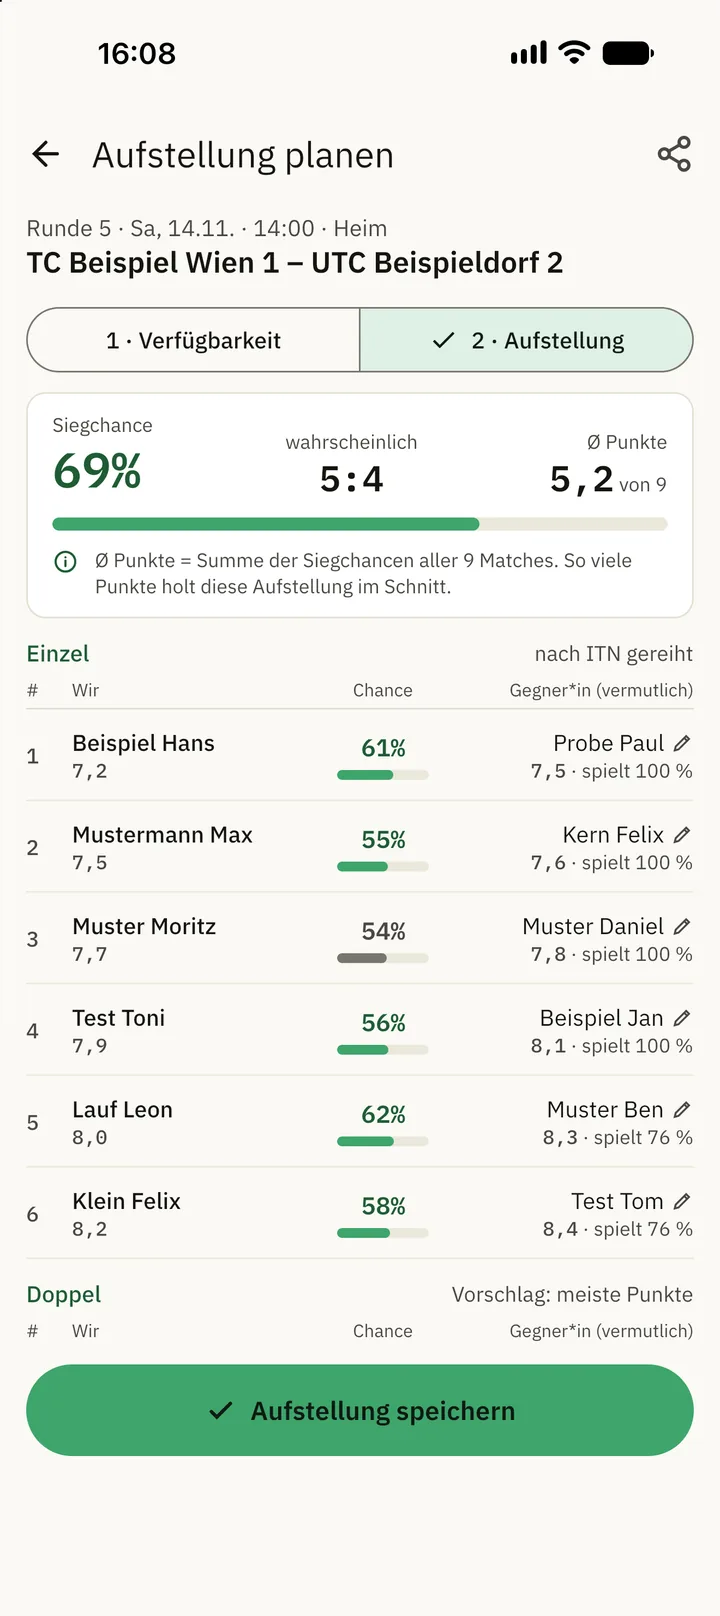
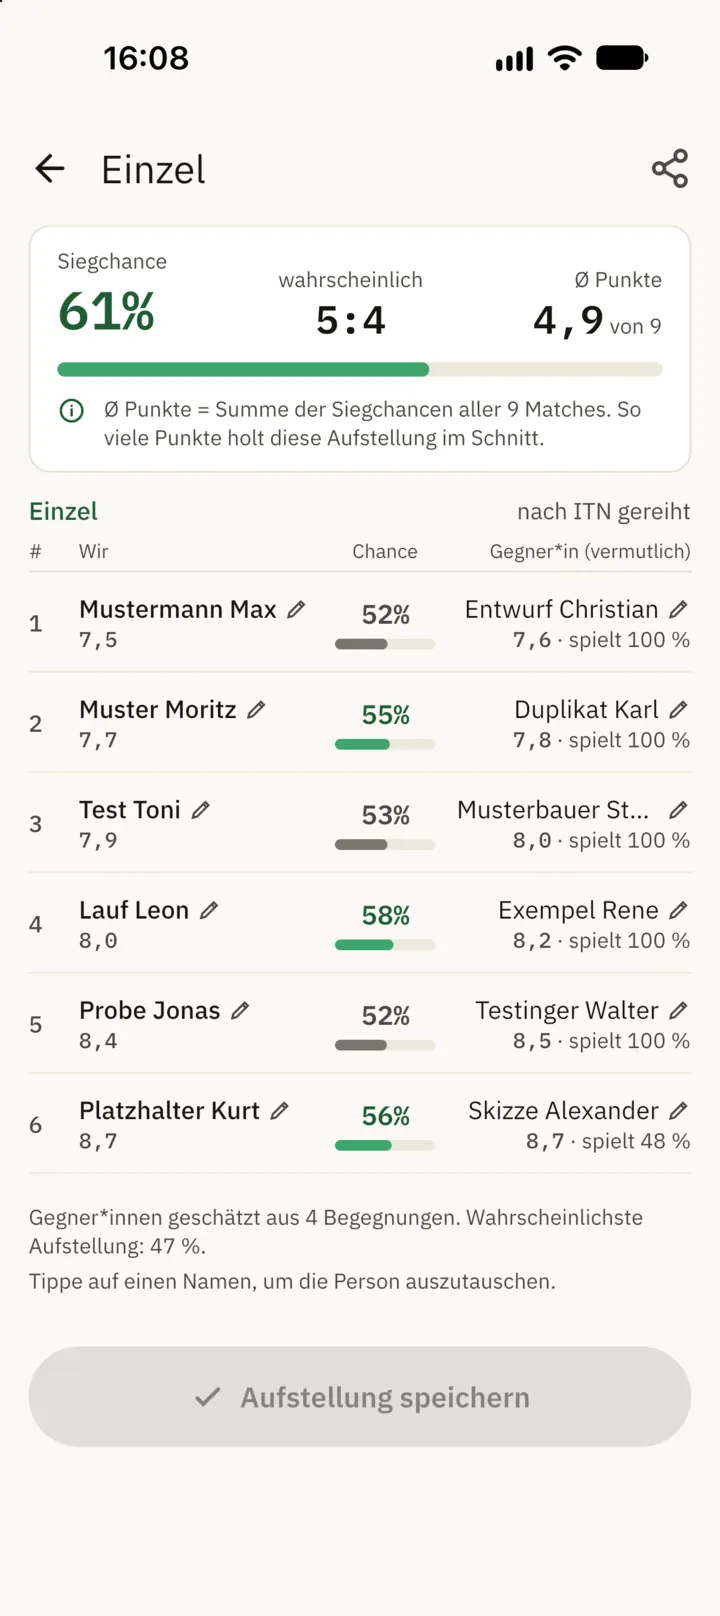
Refresh the remaining app screenshots to the current app
The six images show the current tab bar and screens. The crops end in clean gaps for the larger UI, the alt texts describe what is visible, and the third availability answer is called Vielleicht.

diff --git a/site/index.html b/site/index.html
@@ -61,7 +61,7 @@
 
       <figure class="hero-shot">
         <div class="crop crop-abfrage">
-          <img src="/img/app-verfuegbarkeit.webp" alt="Verfügbarkeitsabfrage der App aus Sicht der Mannschaftsführung: Antworten zum nächsten Spieltag als Liste: sieben mit Ja, eine mit Unter Umständen" width="720" height="1616" decoding="async" fetchpriority="high">
+          <img src="/img/app-verfuegbarkeit.webp" alt="Verfügbarkeitsabfrage der App aus Sicht der Mannschaftsführung: Antworten zum Spieltag am 28.11. als Liste: sechs mit Ja, eine mit Vielleicht" width="720" height="1616" decoding="async" fetchpriority="high">
         </div>
       </figure>
     </div>
@@ -96,13 +96,13 @@
       <div class="stairs">
         <figure class="step">
           <div class="crop crop-liga">
-            <img src="/img/app-liga.webp" alt="Liga-Übersicht der App: Tabelle, Spielplan und Prognose für die eigene Mannschaft" width="720" height="1616" loading="lazy" decoding="async">
+            <img src="/img/app-liga.webp" alt="Liga-Übersicht der App: Prognose mit Siegchance fürs nächste Match und Saison-Forecast, darunter die Tabelle mit der eigenen Mannschaft auf Platz 2" width="720" height="1616" loading="lazy" decoding="async">
           </div>
           <figcaption>Liga mit Prognose</figcaption>
         </figure>
         <figure class="step step-2">
           <div class="crop crop-mannschaft">
-            <img src="/img/app-kader.webp" alt="Kader der Liga in der App: jede Spieler*in der Mannschaft mit ITN, Bilanz und Form" width="720" height="1616" loading="lazy" decoding="async">
+            <img src="/img/app-kader.webp" alt="Kader der eigenen Mannschaft in der App: neun gemeldete Spieler*innen mit ITN, Einsätzen und Bilanz" width="720" height="1616" loading="lazy" decoding="async">
           </div>
           <figcaption>Kader mit ITN</figcaption>
         </figure>
@@ -124,7 +124,7 @@
       <div class="wrap field-inner">
         <div class="field-copy">
           <h2 id="verfuegbarkeit">Deine Spieler*innen brauchen keine App.</h2>
-          <p>Kortform legt die Saison automatisch an, du teilst nur den Link. Er öffnet eine Webseite: Ja, Nein oder Unter Umständen, optional mit Kommentar, ohne App und ohne Konto. Wer die App hat, antwortet auch dort.</p>
+          <p>Kortform legt die Saison automatisch an, du teilst nur den Link. Er öffnet eine Webseite: Ja, Vielleicht oder Nein, optional mit Kommentar, ohne App und ohne Konto. Wer die App hat, antwortet auch dort.</p>
           <p>Mit Kortform Team siehst du alle Antworten je Spieltag und Saison, erinnerst per Tipp, wer noch fehlt, und die Antworten fließen direkt in den Aufstellungsplaner. Den Link und die Zahl der Antworten hast du auch gratis.</p>
           <p>Antworten ist immer gratis. Die Abfrage nimmt auch nach dem Ende von Team weiter Antworten an.</p>
         </div>
@@ -154,8 +154,8 @@
 
       <div class="stairs stairs-one">
         <figure class="step">
-          <div class="crop crop-verlauf">
-            <img src="/img/app-aufstellung.webp" alt="Aufstellungsplaner der App: Einzel und Doppel nach ITN mit Siegchance je Position" width="720" height="1616" loading="lazy" decoding="async">
+          <div class="crop crop-aufstellung">
+            <img src="/img/app-aufstellung.webp" alt="Aufstellungsplaner der App: sechs Einzel nach ITN mit Gegner*innen und Siegchance je Position, darüber die Siegchance der ganzen Aufstellung mit 61 %" width="720" height="1616" loading="lazy" decoding="async">
           </div>
           <figcaption>Aufstellung mit Siegchance</figcaption>
         </figure>
@@ -222,9 +222,9 @@
         </figure>
         <figure class="step step-2">
           <div class="crop crop-verlauf">
-            <img src="/img/app-verlauf.webp" alt="Verlauf-Ansicht der App: aktueller Wert 7,512, minus 0,270 seit 2. Jänner, Diagramm der Saison mit fallender Kurve und die Karte Nächstes Match" width="720" height="1616" loading="lazy" decoding="async">
+            <img src="/img/app-verlauf.webp" alt="Profil in der App: aktueller Wert 7,512, minus 0,270 seit 2. Jänner, der Hinweis auf eingetragene Verfügbarkeiten und das Diagramm der Saison mit fallender Kurve" width="720" height="1616" loading="lazy" decoding="async">
           </div>
-          <figcaption>Verlauf</figcaption>
+          <figcaption>Profil mit Verlauf</figcaption>
         </figure>
       </div>
 

diff --git a/site/home.css b/site/home.css
@@ -10,12 +10,13 @@
 /* Cropped screenshots */
 .crop { position: relative; overflow: hidden; background: #faf9f5; border: 1.5px solid var(--text); border-bottom: 1.5px dashed var(--text); border-radius: 22px 22px 0 0; }
 .crop img { display: block; width: 100%; height: auto; }
-.crop-rechner { aspect-ratio: 720 / 1110; }
-.crop-abfrage { aspect-ratio: 720 / 1372; }
-.crop-spieler { aspect-ratio: 720 / 1250; }
-.crop-mannschaft { aspect-ratio: 720 / 1175; }
-.crop-liga { aspect-ratio: 720 / 1350; }
-.crop-verlauf { aspect-ratio: 720 / 1260; }
+.crop-rechner { aspect-ratio: 720 / 1235; }
+.crop-abfrage { aspect-ratio: 720 / 1218; }
+.crop-spieler { aspect-ratio: 720 / 1190; }
+.crop-mannschaft { aspect-ratio: 720 / 1312; }
+.crop-liga { aspect-ratio: 720 / 1312; }
+.crop-verlauf { aspect-ratio: 720 / 1295; }
+.crop-aufstellung { aspect-ratio: 720 / 1315; }
 
 /* Annotation tags sit in empty space next to what they point at (positions measured on the 720 px originals) */
 .tag, .legend-tag, .ref { display: inline-grid; place-items: center; background: #a64b27; color: #faf9f5; font-family: var(--font-mono); font-weight: 600; line-height: 1; }
